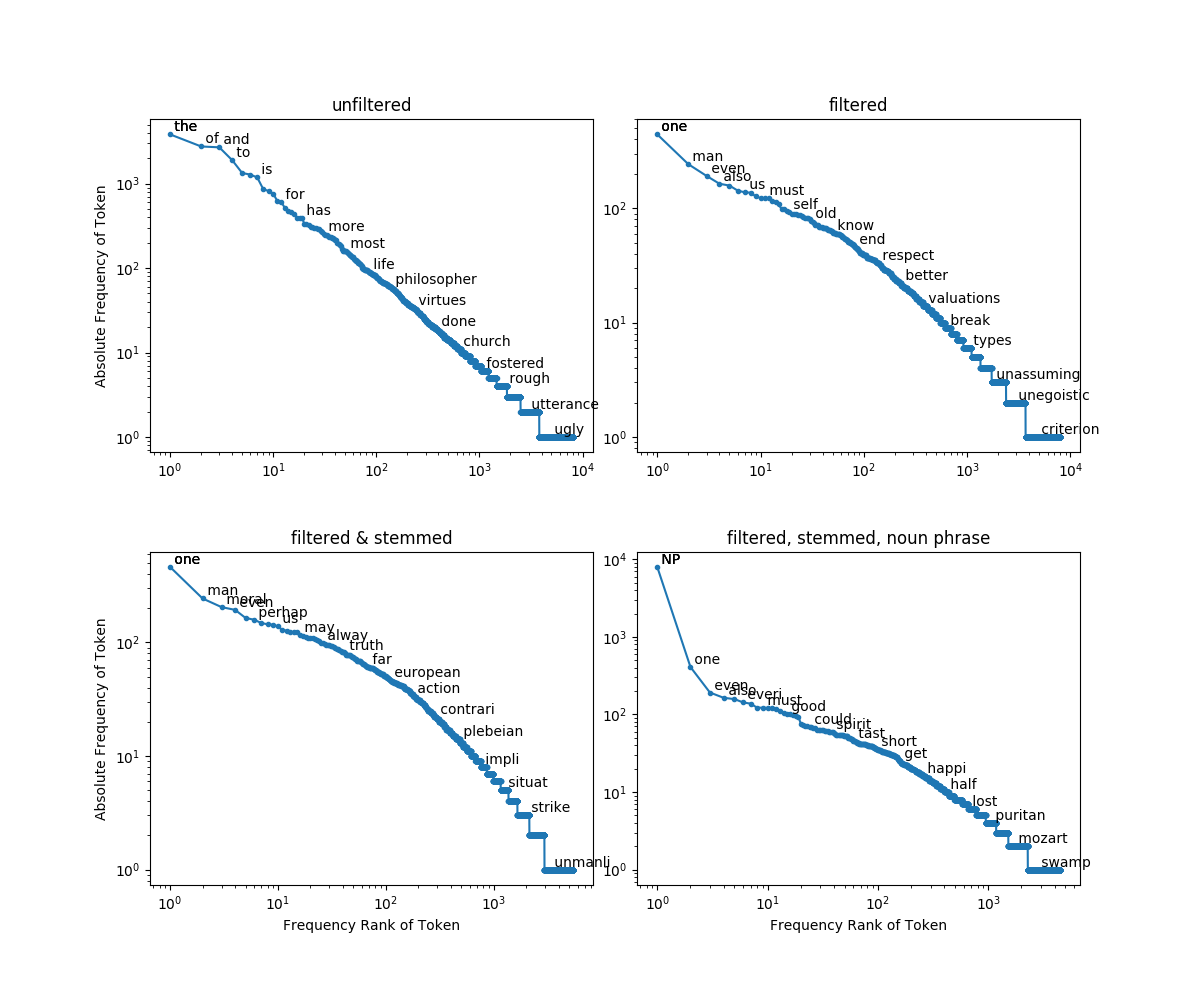
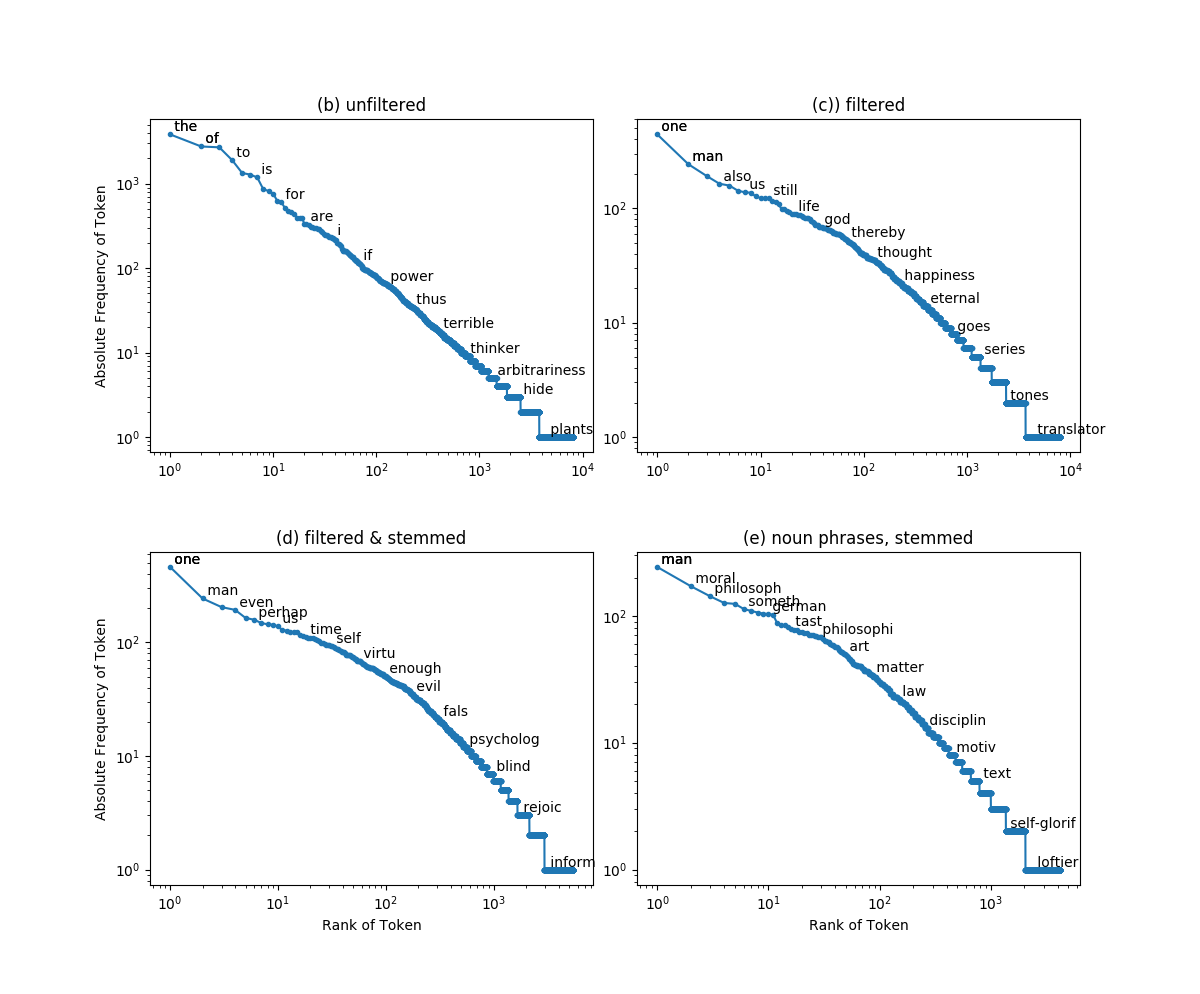
- print 20 most frequent tokens - upload plots

diff --git a/text_mining.py b/text_mining.py
@@ -86,10 +86,10 @@ def bar_plot(tokens, tokens_filtered, tokens_stemmed, tokens_np):
         ax.set_yticklabels(people)
         ax.set_xlabel("Frequency of Token")
 
-    ax1.set_title("unfiltered")
-    ax2.set_title("filtered")
-    ax3.set_title("filtered & stemmed")
-    ax4.set_title("noun phrases")
+    ax1.set_title("(b) unfiltered")
+    ax2.set_title("(c) filtered")
+    ax3.set_title("(d) filtered & stemmed")
+    ax4.set_title("(e) noun phrases, stemmed")
 
     plt.subplots_adjust(wspace=0.3)
 
@@ -113,18 +113,18 @@ def zipfian_plot(tokens, tokens_filtered, tokens_stemmed, tokens_np):
 
         ax.loglog(ranks, frequencies, marker=".")
 
-        for n in list(np.logspace(-0.5, np.log10(len(counts)), 20, endpoint=False).astype(int)):
+        for n in list(np.logspace(-0.5, np.log10(len(counts)), 17, endpoint=False).astype(int)):
             ax.text(ranks[n], frequencies[n], " " + indices[n],
                          verticalalignment="bottom",
                          horizontalalignment="left")
 
-    ax1.set_title("unfiltered")
-    ax2.set_title("filtered")
-    ax3.set_title("filtered & stemmed")
-    ax4.set_title("noun phrases")
+    ax1.set_title("(b) unfiltered")
+    ax2.set_title("(c)) filtered")
+    ax3.set_title("(d) filtered & stemmed")
+    ax4.set_title("(e) noun phrases, stemmed")
 
-    ax3.set_xlabel("Frequency Rank of Token")
-    ax4.set_xlabel("Frequency Rank of Token")
+    ax3.set_xlabel("Rank of Token")
+    ax4.set_xlabel("Rank of Token")
     ax1.set_ylabel("Absolute Frequency of Token")
     ax3.set_ylabel("Absolute Frequency of Token")
 
@@ -170,10 +170,6 @@ if __name__ == '__main__':
     tokens_filtered = nltk.word_tokenize(filtered_text)
     tokens_filtered = pd.Series(tokens_filtered).value_counts()
 
-    # TODO: make more pretty
-    print('tokens: ' + str(tokens[:20].index) +
-          '\n filtered tokens: ' + str(tokens_filtered[:20].index))
-
     # (d) stemming
 
     ps = PorterStemmer()
@@ -184,7 +180,11 @@ if __name__ == '__main__':
     tokens_stemmed = nltk.word_tokenize(stemmed_text)
     tokens_stemmed = pd.Series(tokens_stemmed).value_counts()
 
-    # nice to see that now philosoph = {philosophy, philosophers} and also moral = {moral, morality}
+    print('20 most frequent tokens: \n' +
+          'unfiltered: \n' + str(tokens[:20].index.values) +
+          '\n filtered: \n' + str(tokens_filtered[:20].index.values) +
+          '\n filtered & stemmed: \n' + str(tokens_stemmed[:20].index.values))
+
 
     # (e) noun phrase
 
